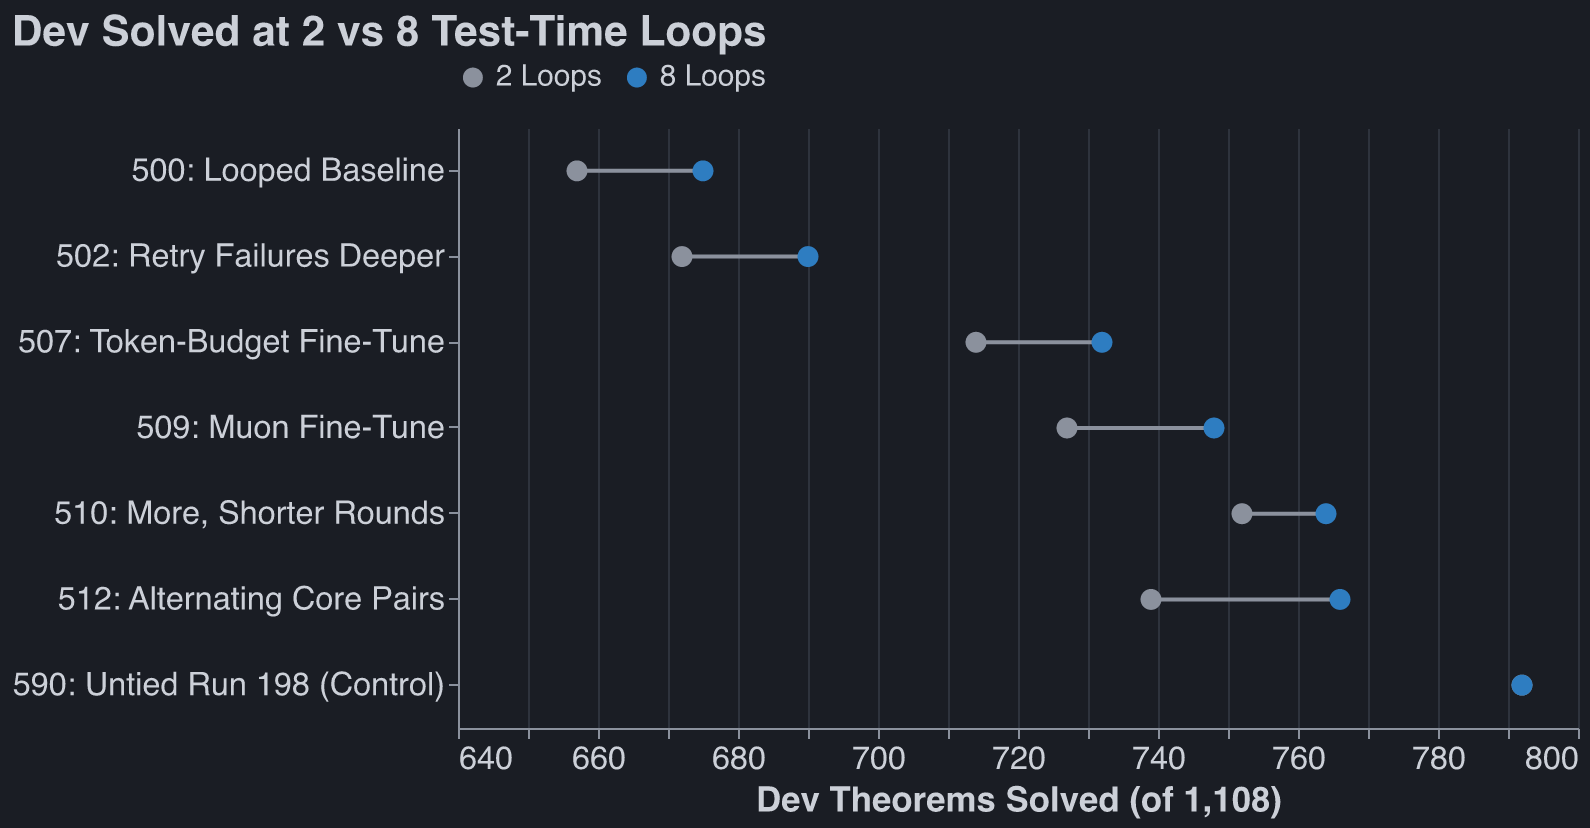
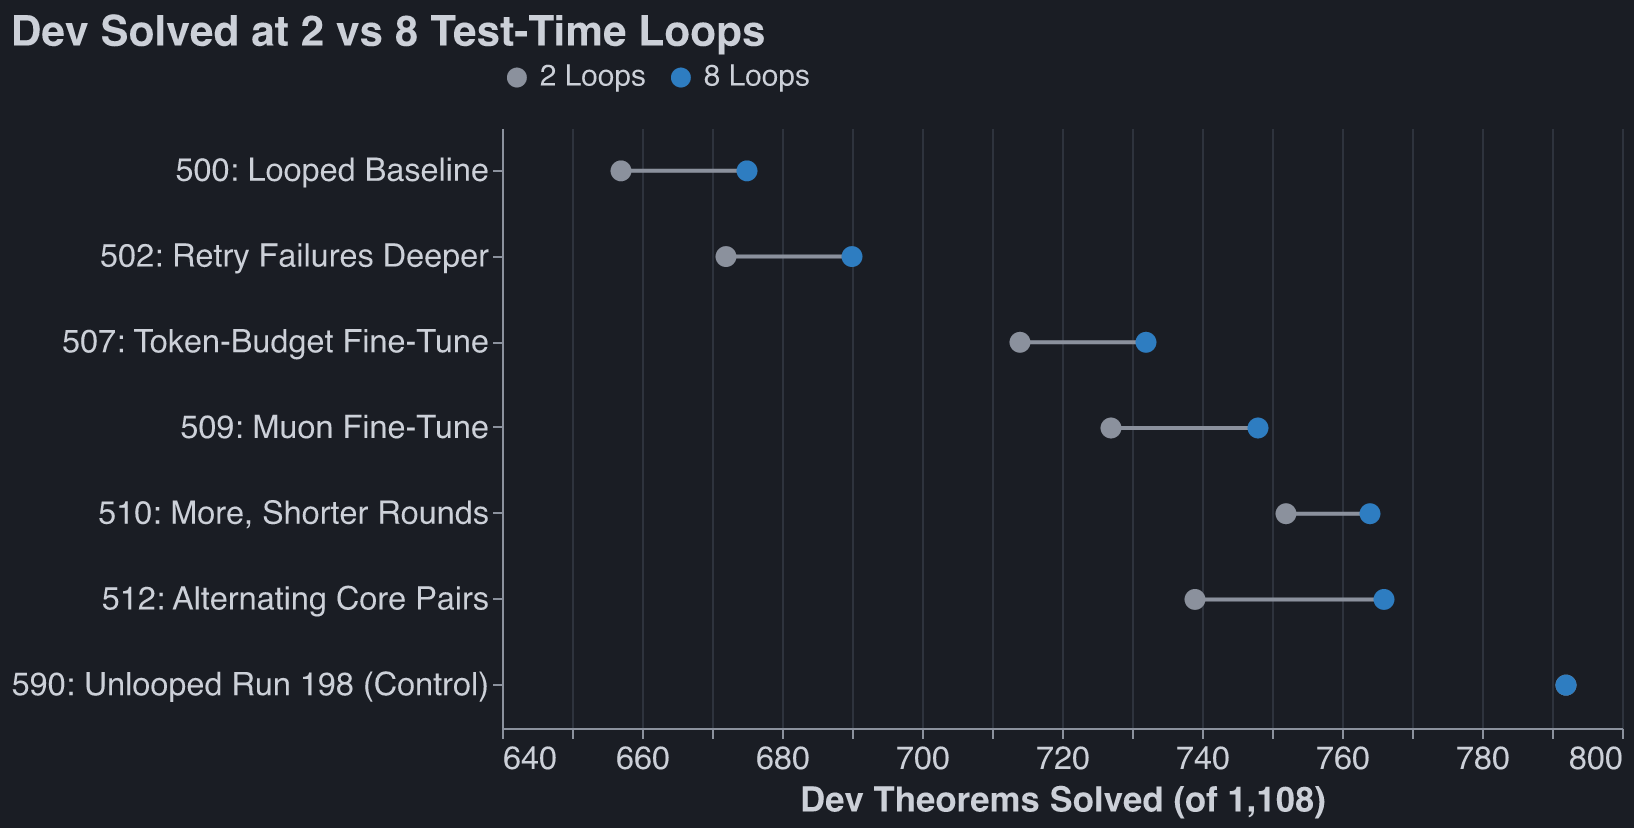
Oct 11 SPAR post: unlooped labels, 12% fix, Test-Time Scaling title; Oct 18 Training Dynamics title; dev auto-reload

diff --git a/blog/oct-11/index.html b/blog/oct-11/index.html
@@ -3,10 +3,10 @@
   <head>
     <meta charset="UTF-8" />
     <meta name="viewport" content="width=device-width, initial-scale=1.0" />
-    <title>SPAR, Capability Emergence: Oct 11</title>
+    <title>SPAR, Capability Emergence: Test-Time Scaling, Oct 11</title>
     <meta name="description" content="Essays by Robbie Thompson." />
     <link rel="canonical" href="https://robbiewmthompson.com/blog/oct-11/" />
-    <meta property="og:title" content="SPAR, Capability Emergence: Oct 11" />
+    <meta property="og:title" content="SPAR, Capability Emergence: Test-Time Scaling, Oct 11" />
     <meta property="og:description" content="Essays by Robbie Thompson." />
     <meta property="og:type" content="article" />
     <meta property="og:url" content="https://robbiewmthompson.com/blog/oct-11/" />
@@ -21,7 +21,7 @@
       <article>
         <header class="post-header">
           <p class="post-meta"><a href="/projects/">&larr; Projects</a></p>
-          <h1>SPAR, Capability Emergence: Oct 11</h1>
+          <h1>SPAR, Capability Emergence: Test-Time Scaling, Oct 11</h1>
           <p class="post-dates"><span>Published <time datetime="2026-10-11">October 11, 2026</time></span><span>Last edited <time datetime="2026-10-11">October 11, 2026</time></span></p>
         </header>
         <p><em>Epistemic status: largely written by Claude</em></p>
@@ -39,12 +39,12 @@ loops than they were trained on, even if we randomize loop number during trainin
 solved 11.4% / 13.8% / 15.9%.</li>
 </ul>
 <p><img src="charts/loops-spike.png" alt="Long dev theorems solved by test-time loop count, for looped models trained on 1-4, 1-8 and 1-16 loops, and the 1-4 model after 12 RL rounds"></p>
-<p><img src="charts/loops-gap.png" alt="Dev theorems solved at 2 and 8 test-time loops for each kept experiment, and the untied control at 792"></p>
+<p><img src="charts/loops-gap.png" alt="Dev theorems solved at 2 and 8 test-time loops for each kept experiment, and the unlooped control at 792"></p>
 <p><img src="charts/retry-depth.png" alt="Share of RL targets that failed at 1 loop solved on retry at 2, 4 and 8 loops"></p>
 <h2 id="continuous-thoughts-coconut-style-dont-win-either">Continuous thoughts (Coconut-style) don’t win either <a class="heading-anchor" href="#continuous-thoughts-coconut-style-dont-win-either" aria-label="Link to this section">#</a></h2>
 <ul>
 <li>Before RL, thinking clearly helps: valid samples on the RL targets go from about 4% with no
-thoughts to 11% with 8 thoughts per line.</li>
+thoughts to 12% with 8 thoughts per line.</li>
 <li>After RL, the benefit is all in the step from 0 to 2 thoughts.</li>
 <li>Speed decided the score. Recipes that pass gradient through the thoughts get about 1,550
 pretraining steps and 3 RL rounds; pause slots get about 3,500 steps and 6–7 rounds, but the model
@@ -52,20 +52,20 @@ ignores the thoughts.</li>
 <li>Best result 711, against the plain 792 control.</li>
 </ul>
 <p><img src="charts/thoughts-prerl.png" alt="Before RL, share of valid samples on the RL targets by thoughts per proof line"></p>
-<p><img src="charts/thoughts-recipes.png" alt="Dev theorems solved after RL by the feedback recipe, pause slots, the best thoughts model, and the untied control"></p>
+<p><img src="charts/thoughts-recipes.png" alt="Dev theorems solved after RL by the feedback recipe, pause slots, the best thoughts model, and the unlooped control"></p>
 <h2 id="retrying-with-lean-errors-the-model-doesnt-use-its-failed-proofs">Retrying with Lean errors: the model doesn’t use its failed proofs <a class="heading-anchor" href="#retrying-with-lean-errors-the-model-doesnt-use-its-failed-proofs" aria-label="Link to this section">#</a></h2>
 <p>First, definitions:</p>
 <ul>
-<li><em>Retry</em>: The model sees its failure plus a Lean error token (one of x).</li>
+<li><em>Resume</em>: Resample as soon as you get a Lean error (so if you started down a bad path, you’re
+stuck).</li>
+<li><em>Retry</em>: The model sees its failure plus a Lean error token (one of 32).</li>
 <li><em>Blank</em>: Same as retry, except we always emit the same <code>&lt;fail&gt;</code> token on Lean errors.</li>
-<li><em>Resume</em>: Resume evaluating as soon as you get a Lean error (so if you started down a bad path,
-you’re stuck).</li>
-<li><em>Repair</em>: Resume, but add synthetic recoveries.</li>
+<li><em>Repair</em>: Retry, but add synthetic recoveries.</li>
 </ul>
 <ul>
 <li>Every variant scored below plain EI (706–762 vs 771).</li>
-<li>Trained on synthetic recoveries, the model ignores the failure. Trained to repair, it copies the
-failure (73% of second attempts identical to the first).</li>
+<li>On the <em>retry</em> leg, the model ignores the failure. Trained to <em>repair</em>, it copies the failure (73%
+of second attempts identical to the first).</li>
 <li>Why: failures are mostly <em>wrong plans</em>, and the Lean error points to where type-checking stopped,
 not to the earlier choice that made the proof unfinishable.</li>
 <li>Keeping the error-free prefix commits the model to the bad plan, so starting over beats resuming.</li>

diff --git a/blog/drafts/index.html b/blog/drafts/index.html
@@ -76,7 +76,7 @@
           <span class="post-date"><time datetime="2025-04-04">April 4, 2025</time><span class="post-stars" title="4/5">★★★★☆</span></span>
         </li>
         <li data-rating="3">
-          <a class="post-link" href="/blog/oct-18/">SPAR, Capability Emergence: Oct 18 <span class="draft-tag project-tag">project</span></a>
+          <a class="post-link" href="/blog/oct-18/">SPAR, Capability Emergence: Training Dynamics, Oct 18 <span class="draft-tag project-tag">project</span></a>
           <span class="post-date"><time datetime="2026-10-18">October 18, 2026</time><span class="post-stars" title="3/5">★★★☆☆</span></span>
         </li>
         <li data-rating="3">
@@ -224,7 +224,7 @@
           <span class="post-date"><time datetime="2025-01-29">January 29, 2025</time><span class="post-stars" title="2/5">★★☆☆☆</span></span>
         </li>
         <li data-rating="1">
-          <a class="post-link" href="/blog/oct-11/">SPAR, Capability Emergence: Oct 11 <span class="draft-tag project-tag">project</span></a>
+          <a class="post-link" href="/blog/oct-11/">SPAR, Capability Emergence: Test-Time Scaling, Oct 11 <span class="draft-tag project-tag">project</span></a>
           <span class="post-date"><time datetime="2026-10-11">October 11, 2026</time><span class="post-stars" title="1/5">★☆☆☆☆</span></span>
         </li>
         <li data-rating="1">

diff --git a/blog/oct-18/index.html b/blog/oct-18/index.html
@@ -3,10 +3,10 @@
   <head>
     <meta charset="UTF-8" />
     <meta name="viewport" content="width=device-width, initial-scale=1.0" />
-    <title>SPAR, Capability Emergence: Oct 18</title>
+    <title>SPAR, Capability Emergence: Training Dynamics, Oct 18</title>
     <meta name="description" content="Essays by Robbie Thompson." />
     <link rel="canonical" href="https://robbiewmthompson.com/blog/oct-18/" />
-    <meta property="og:title" content="SPAR, Capability Emergence: Oct 18" />
+    <meta property="og:title" content="SPAR, Capability Emergence: Training Dynamics, Oct 18" />
     <meta property="og:description" content="Essays by Robbie Thompson." />
     <meta property="og:type" content="article" />
     <meta property="og:url" content="https://robbiewmthompson.com/blog/oct-18/" />
@@ -22,7 +22,7 @@
       <article>
         <header class="post-header">
           <p class="post-meta"><a href="/projects/">&larr; Projects</a></p>
-          <h1>SPAR, Capability Emergence: Oct 18</h1>
+          <h1>SPAR, Capability Emergence: Training Dynamics, Oct 18</h1>
           <p class="post-dates"><span>Published <time datetime="2026-10-18">October 18, 2026</time></span><span>Last edited <time datetime="2026-10-18">October 18, 2026</time></span></p>
         </header>
         <p>Work done October 12-18.</p>

diff --git a/projects/index.html b/projects/index.html
@@ -32,7 +32,7 @@
           <span class="post-date"><time datetime="2026-08-31">August 31, 2026</time><span class="post-stars" title="4/5">★★★★☆</span></span>
         </li>
         <li data-rating="3">
-          <a class="post-link" href="/blog/oct-18/">SPAR, Capability Emergence: Oct 18</a>
+          <a class="post-link" href="/blog/oct-18/">SPAR, Capability Emergence: Training Dynamics, Oct 18</a>
           <span class="post-date"><time datetime="2026-10-18">October 18, 2026</time><span class="post-stars" title="3/5">★★★☆☆</span></span>
         </li>
         <li data-rating="3">
@@ -56,7 +56,7 @@
           <span class="post-date"><time datetime="2026-09-04">September 4, 2026</time><span class="post-stars" title="2/5">★★☆☆☆</span></span>
         </li>
         <li data-rating="1">
-          <a class="post-link" href="/blog/oct-11/">SPAR, Capability Emergence: Oct 11</a>
+          <a class="post-link" href="/blog/oct-11/">SPAR, Capability Emergence: Test-Time Scaling, Oct 11</a>
           <span class="post-date"><time datetime="2026-10-11">October 11, 2026</time><span class="post-stars" title="1/5">★☆☆☆☆</span></span>
         </li>
         <li data-rating="1">

diff --git a/build.js b/build.js
@@ -183,6 +183,19 @@ function versioned(file) {
 const BLOG_CSS = versioned("blog.css");
 const FOOTNOTES_JS = versioned("footnotes.js");
 
+// DEV only: poll this page's Last-Modified and reload when the watcher rebuilds it. Every
+// posts/ change (prose or a re-rendered chart) rewrites every page, so this catches both.
+const DEV_RELOAD = `
+    <script>
+      let seen;
+      setInterval(async () => {
+        const res = await fetch(location.pathname, { method: "HEAD", cache: "no-store" }).catch(() => null);
+        const stamp = res?.headers.get("last-modified");
+        if (seen && stamp && stamp !== seen) location.reload();
+        seen = stamp ?? seen;
+      }, 1000);
+    </script>`;
+
 function layout({ title, description, canonical, body, hasMath }) {
   return `<!doctype html>
 <html lang="en">
@@ -204,7 +217,7 @@ function layout({ title, description, canonical, body, hasMath }) {
   </head>
   <body>
 ${body}
-    <script src="${FOOTNOTES_JS}" defer></script>
+    <script src="${FOOTNOTES_JS}" defer></script>${DEV ? DEV_RELOAD : ""}
   </body>
 </html>
 `;

diff --git a/blog/oct-11/charts/thoughts.py b/blog/oct-11/charts/thoughts.py
@@ -31,7 +31,7 @@ save(chart, "thoughts-prerl", WIDTH)
 
 # --- thoughts-recipes --------------------------------------------------------
 WIDTH, HEIGHT = 560, 240
-rows = [{**r, "solved": int(r["solved"]), "control": r["label"].startswith("Untied")}
+rows = [{**r, "solved": int(r["solved"]), "control": r["label"].startswith("Unlooped")}
         for r in csv.DictReader(open("charts/thoughts_recipes.csv"))]
 f = fonts(WIDTH)
 y = alt.Y("label:N", title=None, sort=None, axis=alt.Axis(labelLimit=0))
@@ -41,5 +41,5 @@ bars = base.mark_bar(size=34).encode(
     color=alt.Color("control:N", legend=None, scale=alt.Scale(domain=[False, True], range=[HUE["dollar"], MUTED])))
 value = base.mark_text(align="left", dx=6, color=FG, fontSize=f["label"]).encode(x="solved:Q", text="solved:Q")
 note = base.mark_text(align="left", dx=8, color=BG, fontSize=f["label"]).encode(x=alt.datum(0), text="note:N")
-chart = (bars + value + note).properties(width=WIDTH, height=HEIGHT, title="After RL: Thoughts Models vs the Untied Control")
+chart = (bars + value + note).properties(width=WIDTH, height=HEIGHT, title="After RL: Thoughts Models vs the Unlooped Control")
 save(chart, "thoughts-recipes", WIDTH)

diff --git a/posts/oct-11/charts/thoughts.py b/posts/oct-11/charts/thoughts.py
@@ -31,7 +31,7 @@ save(chart, "thoughts-prerl", WIDTH)
 
 # --- thoughts-recipes --------------------------------------------------------
 WIDTH, HEIGHT = 560, 240
-rows = [{**r, "solved": int(r["solved"]), "control": r["label"].startswith("Untied")}
+rows = [{**r, "solved": int(r["solved"]), "control": r["label"].startswith("Unlooped")}
         for r in csv.DictReader(open("charts/thoughts_recipes.csv"))]
 f = fonts(WIDTH)
 y = alt.Y("label:N", title=None, sort=None, axis=alt.Axis(labelLimit=0))
@@ -41,5 +41,5 @@ bars = base.mark_bar(size=34).encode(
     color=alt.Color("control:N", legend=None, scale=alt.Scale(domain=[False, True], range=[HUE["dollar"], MUTED])))
 value = base.mark_text(align="left", dx=6, color=FG, fontSize=f["label"]).encode(x="solved:Q", text="solved:Q")
 note = base.mark_text(align="left", dx=8, color=BG, fontSize=f["label"]).encode(x=alt.datum(0), text="note:N")
-chart = (bars + value + note).properties(width=WIDTH, height=HEIGHT, title="After RL: Thoughts Models vs the Untied Control")
+chart = (bars + value + note).properties(width=WIDTH, height=HEIGHT, title="After RL: Thoughts Models vs the Unlooped Control")
 save(chart, "thoughts-recipes", WIDTH)

diff --git a/posts/oct-11/FINAL_POST.md b/posts/oct-11/FINAL_POST.md
@@ -1,5 +1,5 @@
 ---
-title: SPAR, Capability Emergence: Oct 11
+title: SPAR, Capability Emergence: Test-Time Scaling, Oct 11
 date: 2026-10-11
 project: true
 rating: 1
@@ -24,14 +24,14 @@ given looped transformer. Nothing beats vanilla transformers.
 
 ![Long dev theorems solved by test-time loop count, for looped models trained on 1-4, 1-8 and 1-16 loops, and the 1-4 model after 12 RL rounds](charts/loops-spike.png)
 
-![Dev theorems solved at 2 and 8 test-time loops for each kept experiment, and the untied control at 792](charts/loops-gap.png)
+![Dev theorems solved at 2 and 8 test-time loops for each kept experiment, and the unlooped control at 792](charts/loops-gap.png)
 
 ![Share of RL targets that failed at 1 loop solved on retry at 2, 4 and 8 loops](charts/retry-depth.png)
 
 ## Continuous thoughts (Coconut-style) don't win either
 
 - Before RL, thinking clearly helps: valid samples on the RL targets go from about 4% with no
-  thoughts to 11% with 8 thoughts per line.
+  thoughts to 12% with 8 thoughts per line.
 - After RL, the benefit is all in the step from 0 to 2 thoughts.
 - Speed decided the score. Recipes that pass gradient through the thoughts get about 1,550
   pretraining steps and 3 RL rounds; pause slots get about 3,500 steps and 6–7 rounds, but the model
@@ -40,21 +40,21 @@ given looped transformer. Nothing beats vanilla transformers.
 
 ![Before RL, share of valid samples on the RL targets by thoughts per proof line](charts/thoughts-prerl.png)
 
-![Dev theorems solved after RL by the feedback recipe, pause slots, the best thoughts model, and the untied control](charts/thoughts-recipes.png)
+![Dev theorems solved after RL by the feedback recipe, pause slots, the best thoughts model, and the unlooped control](charts/thoughts-recipes.png)
 
 ## Retrying with Lean errors: the model doesn't use its failed proofs
 
 First, definitions:
 
-- _Retry_: The model sees its failure plus a Lean error token (one of x).
+- _Resume_: Resample as soon as you get a Lean error (so if you started down a bad path, you're
+  stuck).
+- _Retry_: The model sees its failure plus a Lean error token (one of 32).
 - _Blank_: Same as retry, except we always emit the same `<fail>` token on Lean errors.
-- _Resume_: Resume evaluating as soon as you get a Lean error (so if you started down a bad path,
-  you're stuck).
-- _Repair_: Resume, but add synthetic recoveries.
+- _Repair_: Retry, but add synthetic recoveries.
 
 * Every variant scored below plain EI (706–762 vs 771).
-* Trained on synthetic recoveries, the model ignores the failure. Trained to repair, it copies the
-  failure (73% of second attempts identical to the first).
+* On the _retry_ leg, the model ignores the failure. Trained to _repair_, it copies the failure (73%
+  of second attempts identical to the first).
 * Why: failures are mostly _wrong plans_, and the Lean error points to where type-checking stopped,
   not to the earlier choice that made the proof unfinishable.
 * Keeping the error-free prefix commits the model to the bad plan, so starting over beats resuming.

diff --git a/posts/oct-18/FINAL_POST.md b/posts/oct-18/FINAL_POST.md
@@ -1,5 +1,5 @@
 ---
-title: SPAR, Capability Emergence: Oct 18
+title: SPAR, Capability Emergence: Training Dynamics, Oct 18
 date: 2026-10-18
 project: true
 rating: 3
